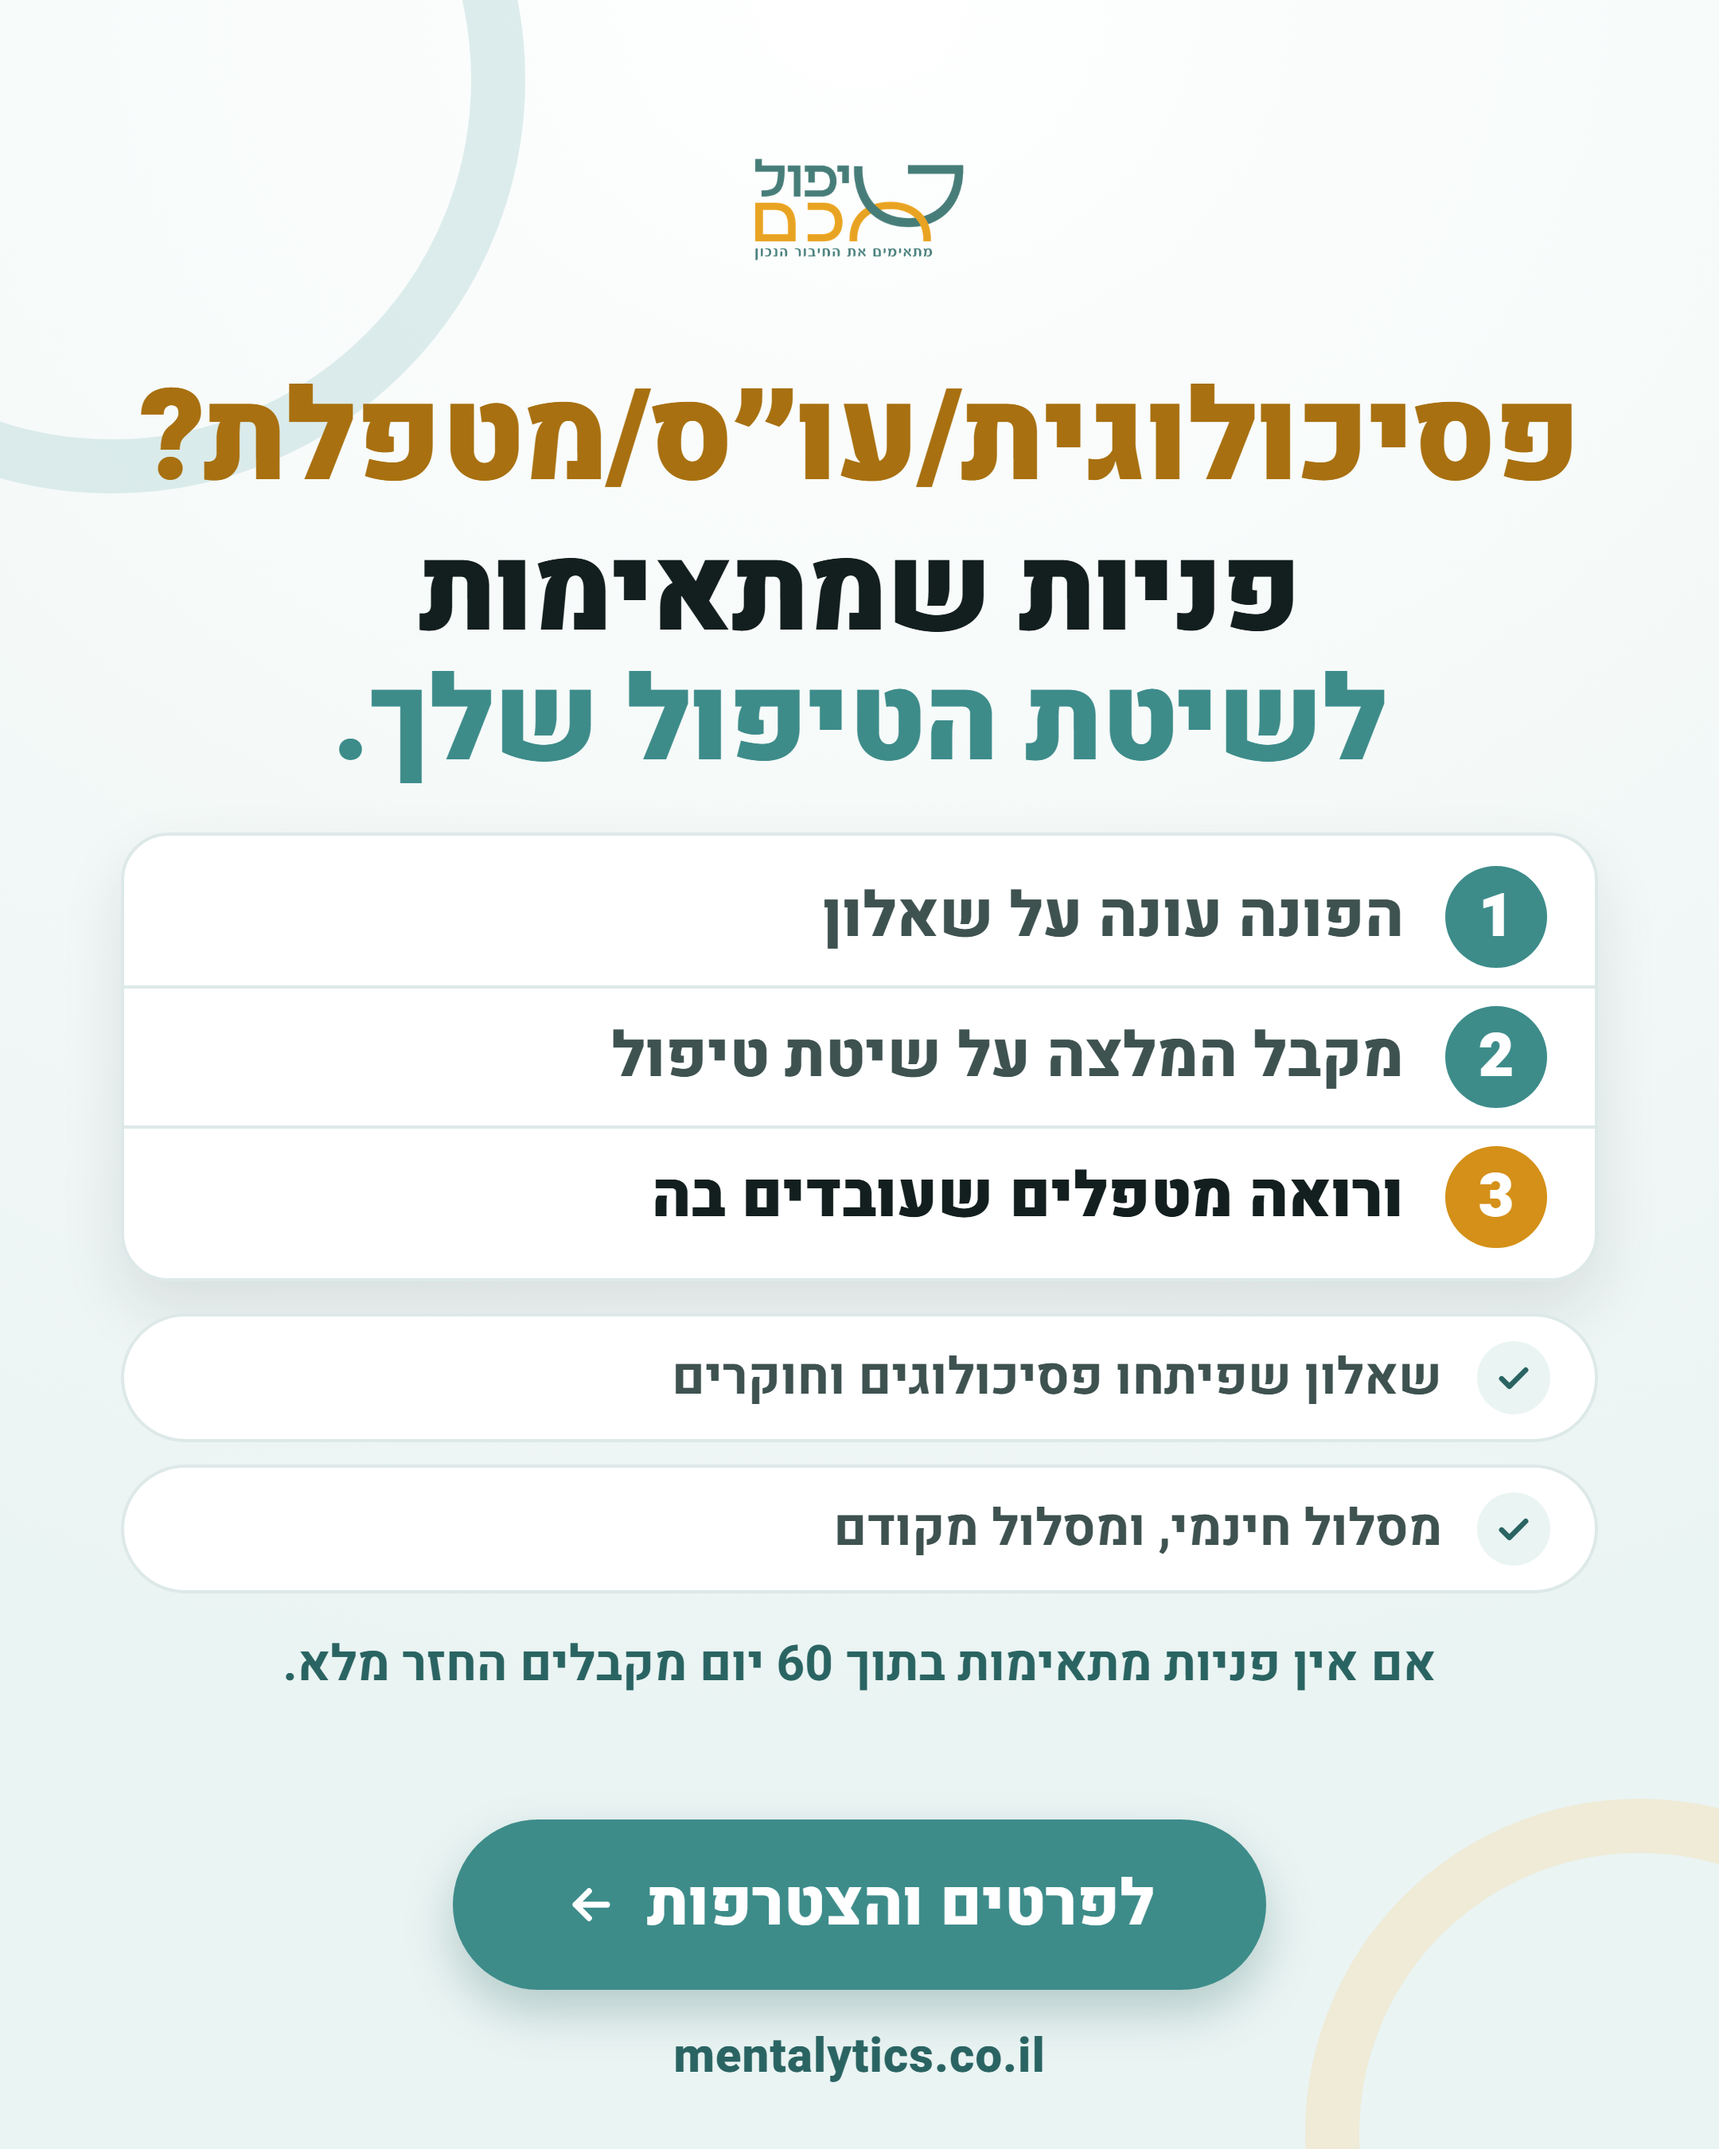
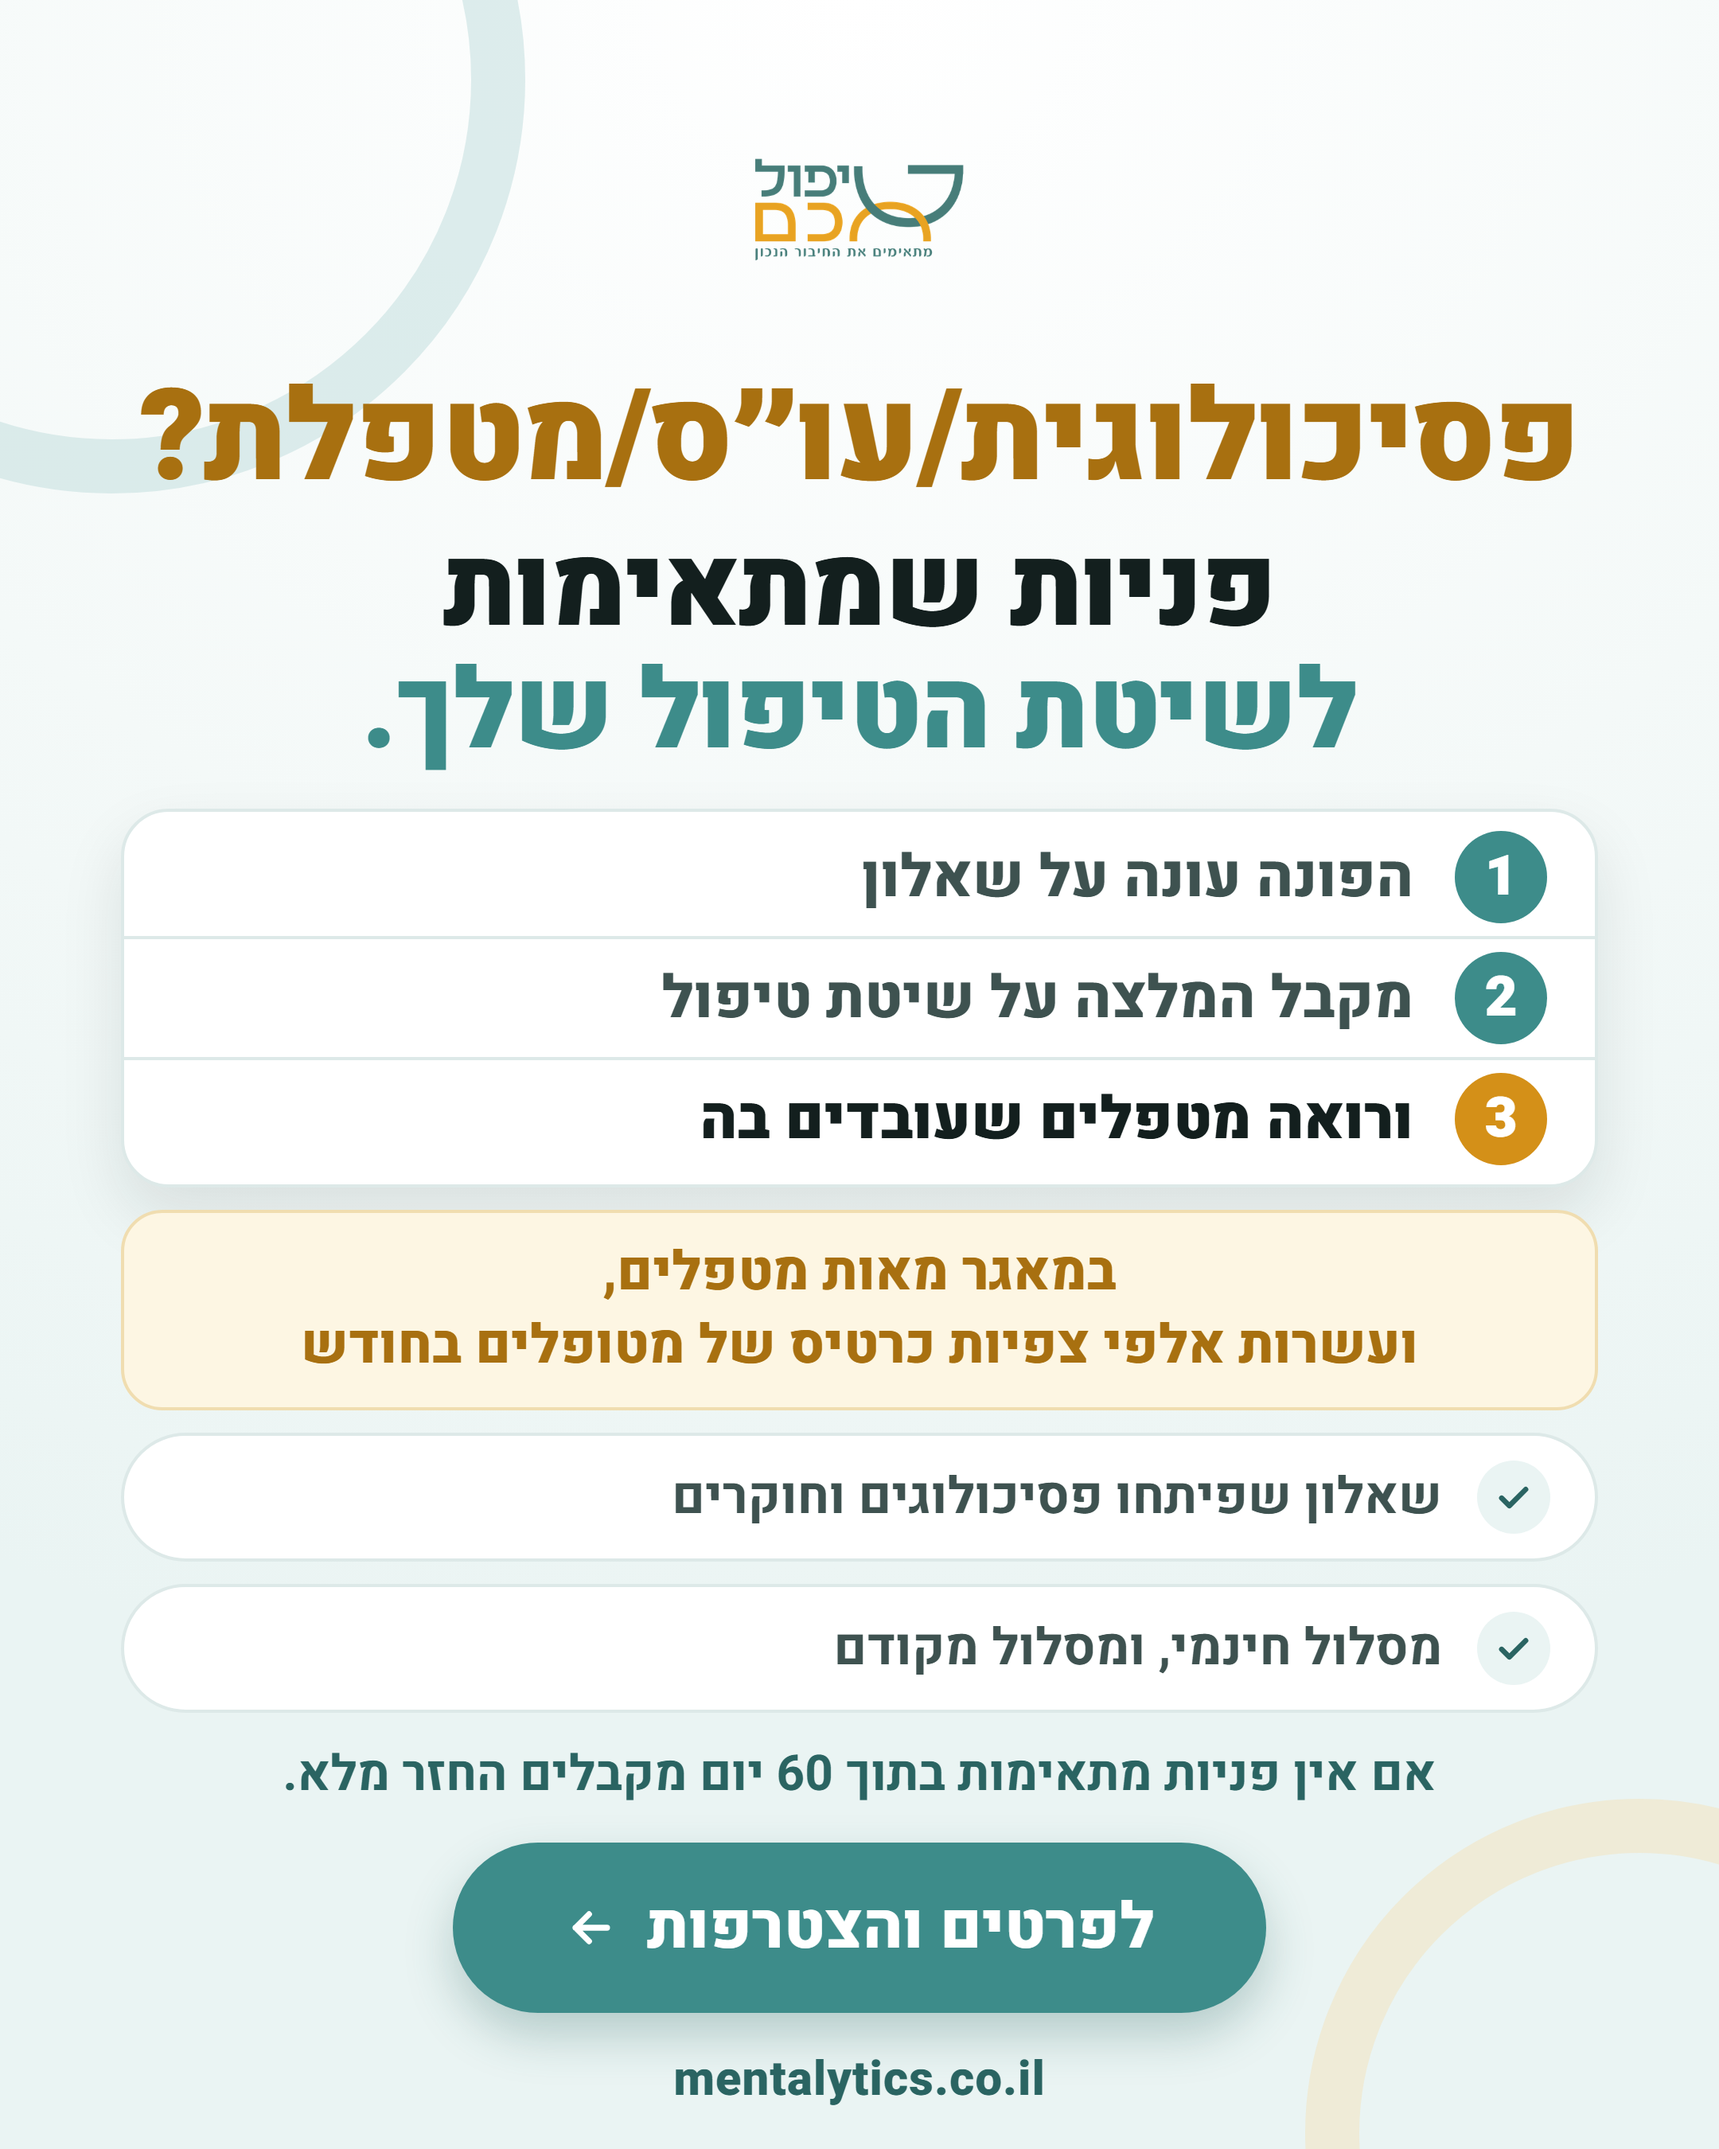
docs(ads): the therapists' ads say how big the directory is
The owner asked for one more sentence in the therapists' image and video:
"במאגר מאות מטפלים, ועשרות אלפי צפיות כרטיס של מטופלים בחודש".

Measured before it went in (7/10/2026): 243 therapists are listed, and
therapist cards were shown 25,735 times in the previous 30 days (24,230 in
September, 25,977 in August). The join page already makes the same statement.
The doc records the numbers and asks that they be checked again before the
next round of ads.

In the image it is a gold strip between the three steps and the two facts;
in the video it is a card of its own, after "fewer inquiries that do not fit"
and before the plans (the video is now 43 seconds).

Changed region(s): [[0.062, 0.2489, 0.9306, 0.9956]]

diff --git a/docs/ads-images/meta-2026-10/gen.py b/docs/ads-images/meta-2026-10/gen.py
@@ -64,6 +64,11 @@ ARROW = ('<svg width="34" height="34" viewBox="0 0 24 24"><path d="M19 12H5M11 6
 # on 6/10/2026 to leave the terms as they are.
 REFUND = "אם אין פניות מתאימות בתוך 60 יום מקבלים החזר מלא."
 
+# The owner's sentence about the size of the directory (7/10/2026), broken after its comma.
+# Behind it, measured that day: 243 therapists listed, and 25,735 therapist-card impressions in
+# the 30 days before. The join page says the same (app/lib/plan-evidence.ts).
+SCALE = "במאגר מאות מטפלים,<br>ועשרות אלפי צפיות כרטיס של מטופלים בחודש"
+
 
 def head():
     return HEAD.replace("%(logo)s", LOGO)
@@ -83,22 +88,24 @@ def recruit():
     rows = ""
     for n, t in enumerate(steps, 1):
         last = n == len(steps)
-        rows += ('<div style="display:flex;align-items:center;gap:26px;padding:11px 30px' +
+        rows += ('<div style="display:flex;align-items:center;gap:26px;padding:8px 30px' +
                  (';border-top:2px solid var(--line)' if n > 1 else '') + '">'
-                 '<div style="flex:none;width:64px;height:64px;border-radius:50%;background:' +
+                 '<div style="flex:none;width:58px;height:58px;border-radius:50%;background:' +
                  ("var(--gold)" if last else "var(--teal)") +
-                 ';color:#fff;font-size:38px;font-weight:900;display:flex;align-items:center;justify-content:center">' + str(n) + '</div>'
-                 '<div style="font-size:39px;font-weight:' + ("900" if last else "800") + ';color:' +
+                 ';color:#fff;font-size:35px;font-weight:900;display:flex;align-items:center;justify-content:center">' + str(n) + '</div>'
+                 '<div style="font-size:37px;font-weight:' + ("900" if last else "800") + ';color:' +
                  ("var(--text)" if last else "var(--text-2)") + '">' + t + '</div></div>')
     return head() + """
 <div class="who">פסיכולוגית/עו״ס/מטפלת?</div>
-<h1 style="font-size:74px">פניות שמתאימות<br><em>לשיטת הטיפול שלך.</em></h1>
-<div class="card" style="width:100%;margin-top:28px;padding:8px 0">""" + rows + """</div>
-<div style="width:100%;margin-top:6px">""" + checks([
+<h1 style="font-size:70px">פניות שמתאימות<br><em>לשיטת הטיפול שלך.</em></h1>
+<div class="card" style="width:100%;margin-top:22px;padding:4px 0">""" + rows + """</div>
+<div style="width:100%;margin-top:14px;background:var(--gold-pale);border:2px solid #F0DDB0;border-radius:26px;padding:15px 28px;
+ font-size:34px;line-height:1.35;font-weight:800;color:var(--gold-dark);text-align:center">""" + SCALE + """</div>
+<div style="width:100%">""" + checks([
         "שאלון שפיתחו פסיכולוגים וחוקרים",
         "מסלול חינמי, ומסלול מקודם",
     ]) + """</div>
-<div style="font-size:31px;font-weight:700;color:var(--teal-dark);text-align:center;margin:22px 0 26px">""" + REFUND + """</div>
+<div style="font-size:31px;font-weight:700;color:var(--teal-dark);text-align:center;margin:16px 0 20px">""" + REFUND + """</div>
 """ + foot("לפרטים והצטרפות")
 
 

diff --git a/docs/ads-copy/meta-2026-10.md b/docs/ads-copy/meta-2026-10.md
@@ -56,9 +56,10 @@
 | כתובת | `https://www.mentalytics.co.il/therapists/join?utm_source=facebook&utm_medium=paid&utm_campaign=fb-recruit-image` |
 
 בראש התמונה, בשורה הגדולה ביותר: "פסיכולוגית/עו״ס/מטפלת?" (הנוסח של הבעלים, 7/10/2026).
-מתחתיה "פניות שמתאימות לשיטת הטיפול שלך.", שלושת השלבים, מי פיתח, שני המסלולים ומשפט ההחזר.
+מתחתיה "פניות שמתאימות לשיטת הטיפול שלך.", שלושת השלבים, המשפט "במאגר מאות מטפלים, ועשרות אלפי
+צפיות כרטיס של מטופלים בחודש" בפס זהוב, מי פיתח, שני המסלולים ומשפט ההחזר.
 
-### מודעה 2: סרטון (39.5 שניות, בלי קריינות)
+### מודעה 2: סרטון (43 שניות, בלי קריינות)
 
 | שדה | ערך |
 |---|---|
@@ -76,14 +77,16 @@
    התאמה אישיותית? כנס/י לאתר".
 4. "ומציג מטפלים שעובדים בשיטה הזו." (הטלפון: רשימת המטפלים, מסומנת "דמו להמחשה")
 5. "פחות פניות סרק. יותר פניות שמתאימות לך."
-6. שני המסלולים: "מסלול חינמי: פרופיל במאגר המטפלים", "מסלול מקודם: הופעה במערכת ההתאמה",
+6. "במאגר מאות מטפלים, ועשרות אלפי צפיות כרטיס של מטופלים בחודש."
+7. שני המסלולים: "מסלול חינמי: פרופיל במאגר המטפלים", "מסלול מקודם: הופעה במערכת ההתאמה",
    ומתחתיו "אם אין פניות מתאימות בתוך 60 יום מקבלים החזר מלא".
-7. "פותח על ידי פסיכולוגים קליניים וחוקרים. מבוסס על מאות מחקרים."
-8. הלוגו, "הצטרפות למאגר המטפלים", mentalytics.co.il.
+8. "פותח על ידי פסיכולוגים קליניים וחוקרים. מבוסס על מאות מחקרים."
+9. הלוגו, "הצטרפות למאגר המטפלים", mentalytics.co.il.
 
 התיקונים של הבעלים מ-7/10/2026: שורת הקהל בגדול בראש הפתיחה; "המטופלים" במקום "הפונים" ותוספת
-"שנבנה ע״י פסיכולוגים וחוקרים"; "הנכונה" והאישיות הטיפולית עם הערת הכוכבית; והמסלולים לפני
-"פותח על ידי". השאלה שבפתיחה נשארה בנוסח שאושר ב-6/10 ("שיחות ראשונות").
+"שנבנה ע״י פסיכולוגים וחוקרים"; "הנכונה" והאישיות הטיפולית עם הערת הכוכבית; המסלולים לפני
+"פותח על ידי"; והמשפט על גודל המאגר, בסרטון ובתמונה. השאלה שבפתיחה נשארה בנוסח שאושר ב-6/10
+("שיחות ראשונות").
 
 ---
 
@@ -264,6 +267,9 @@
   חלופה בגוף שלישי (ראו למעלה).
 - **"שתעודותיהם אומתו", לא "מורשים".** לחלק מהמקצועות במאגר אין רישיון ממלכתי.
 - **"פחות פניות סרק", לא "בלי".** אי אפשר להבטיח אפס.
+- **"מאות מטפלים, ועשרות אלפי צפיות כרטיס בחודש" נמדד.** ב-7/10/2026: 243 מטפלים מוצגים במאגר,
+  ו-25,735 הצגות של כרטיס מטפל ב-30 הימים שקדמו (24,230 בספטמבר, 25,977 באוגוסט). אותה טענה
+  מופיעה בדף ההצטרפות (`app/lib/plan-evidence.ts`). לפני סבב מודעות חדש לבדוק שהיא עדיין נכונה.
 - **מה כל מסלול נותן.** לפי דף ההצטרפות, מערכת ההתאמה היא במסלול המקודם; המסלול החינמי הוא
   פרופיל במאגר. המודעה אומרת את זה במפורש, כדי שמי שנרשם לחינמי לא יצפה לפניות מותאמות.
 - **שורת ההחזר היא הנוסח של הבעלים, מילה במילה** (6/10/2026). היא תואמת את דף ההצטרפות
